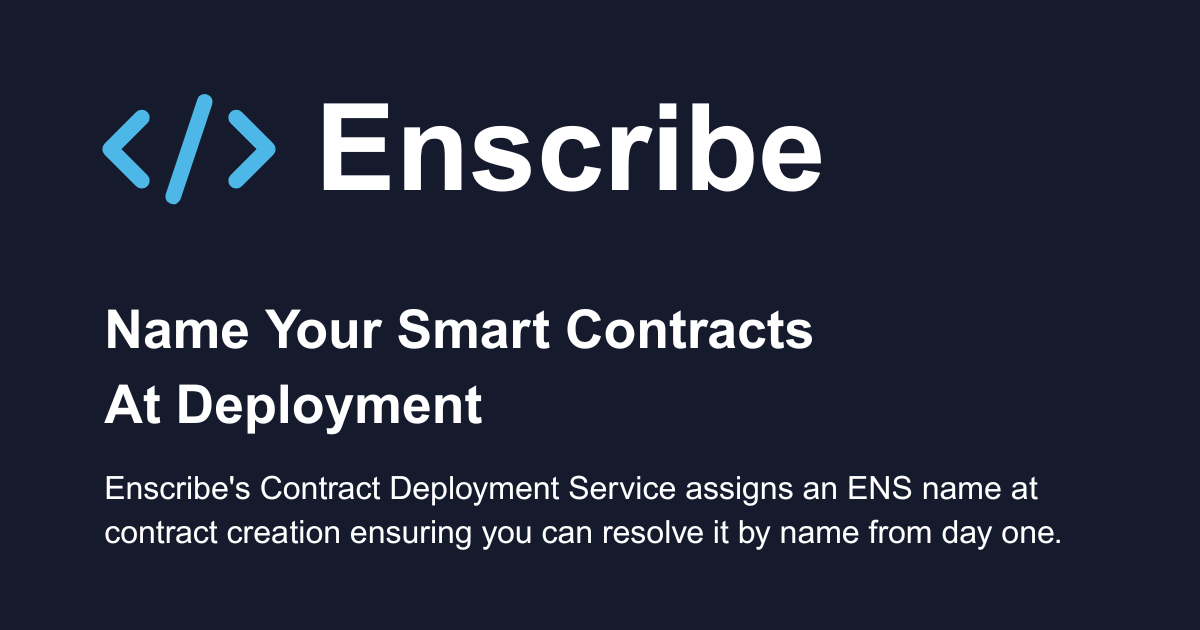
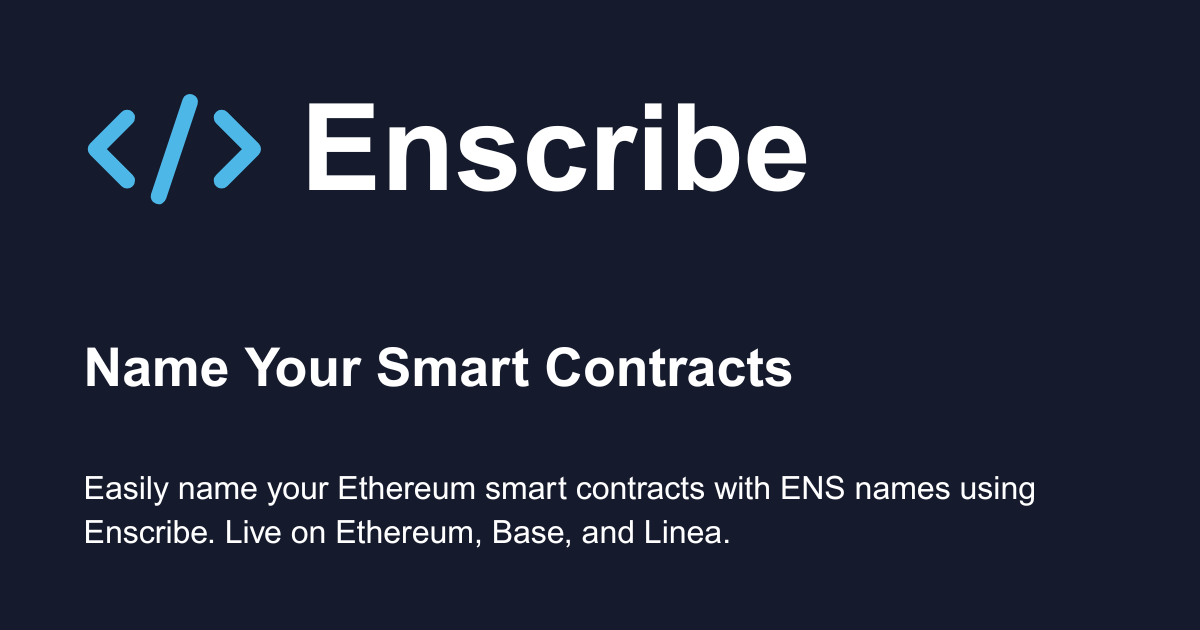
- Update social card. - Update website copy.

Changed region(s): [[0.0617, 0.4825, 0.6783, 0.6937], [0.0617, 0.754, 0.8942, 0.8746], [0.0617, 0.1508, 0.7092, 0.3317]]

diff --git a/docs/src/components/EnscribeLandingPage.jsx b/docs/src/components/EnscribeLandingPage.jsx
@@ -45,6 +45,14 @@ export default function EnscribeLandingPage() {
       answer: "We support all networks that ENS is deployed to, including Ethereum, Base and Linea",
     },
     {
+      question: "Can I name existing contracts?",
+      answer: "Yes. If you already have deployed contracts, you can assign ENS names through Enscribe using your own ENS names or one of ours."
+    },
+    {
+      question: "Can Enscribe show if a contract is verified?",
+      answer: "Yes. We pull verification data from services like Etherscan, Blockscout, and Sourcify so you and your users can see verification status at a glance."
+    },
+    {
       question: "How does Enscribe work?",
       answer:
         "When you deploy a contract using Enscribe it creates a new ENS subname you specify that resolves to the address of the newly deployed contract. Enscribe does this as an atomic transaction, so if contract deployment succeeds you will always have an ENS name you can refer to the contract with.",
@@ -124,11 +132,10 @@ export default function EnscribeLandingPage() {
             <div className="flex flex-col md:flex-row items-center gap-8">
               <div className="flex-1">
                 <h1 className="text-4xl font-bold tracking-tight sm:text-5xl md:text-6xl bg-gradient-to-r from-white to-cyan-400 bg-clip-text text-transparent mb-6">
-                  Name Your Smart Contracts At Deployment
+                  Give Your Smart Contracts a Name — and a Reputation
                 </h1>
                 <p className="text-slate-300 text-xl max-w-[600px] mb-8">
-                  Enscribe's Contract Deployment Service assigns an ENS name at contract creation ensuring you can
-                  resolve it by name from day one
+                  With Enscribe, developers can easily assign ENS names to smart contracts, while providing verification data to increase user trust.
                 </p>
                 <div className="flex flex-wrap gap-4">
                   <Link to={customFields.appUrl} className="button-primary rounded-md">
@@ -177,8 +184,7 @@ export default function EnscribeLandingPage() {
                 </div>
                 <h3 className="text-xl font-semibold mb-4">Automatic ENS Integration</h3>
                 <p className="text-slate-300">
-                  Seamlessly create ENS records for smart contracts at deploy time, eliminating manual post-deployment
-                  steps.
+                  Seamlessly create ENS records for smart contracts at deployment, or for existing contracts, eliminating manual steps.
                 </p>
               </div>
               <div className="bg-slate-800 border border-slate-700 rounded-lg p-8">
@@ -187,8 +193,7 @@ export default function EnscribeLandingPage() {
                 </div>
                 <h3 className="text-xl font-semibold mb-4">Multi-chain Support</h3>
                 <p className="text-slate-300">
-                  Deploy contracts to multiple ENS-supported chains with appropriate naming for each, expanding your
-                  reach.
+                  Name contracts on multiple ENS-supported chains including Ethereum, Base and Linea.
                 </p>
               </div>
               <div className="bg-slate-800 border border-slate-700 rounded-lg p-8">
@@ -204,20 +209,18 @@ export default function EnscribeLandingPage() {
                 <div className="text-cyan-400 text-3xl mb-4">
                   <FaLock />
                 </div>
-                <h3 className="text-xl font-semibold mb-4">You Own Your Contracts</h3>
+                <h3 className="text-xl font-semibold mb-4">Track and Manager Your Contracts</h3>
                 <p className="text-slate-300">
-                  Contracts deployed with Enscribe are owned by the deployment account not the service, ensuring you
-                  remain in control of your app contracts.
+                  Track your existing contracts in the Enscribe dashboard to easily find, name and verify your contracts.
                 </p>
               </div>
               <div className="bg-slate-800 border border-slate-700 rounded-lg p-8">
                 <div className="text-cyan-400 text-3xl mb-4">
                   <FaPlug />
                 </div>
-                <h3 className="text-xl font-semibold mb-4">Third Party Integrations</h3>
+                <h3 className="text-xl font-semibold mb-4">Smart Contract Verifications</h3>
                 <p className="text-slate-300">
-                  We're going to be launching some neat third-party integrations soon to make using the Enscribe
-                  Contract Deployment Service event more seamless.
+                  View and display verification status of contracts accross a number of sources including Etherscan, Blockscout, and Sourcify.
                 </p>
               </div>
             </div>
@@ -241,7 +244,7 @@ export default function EnscribeLandingPage() {
                     </li>
                     <li className="flex items-center">
                       <HiCheck className="mr-2 h-4 w-4 text-cyan-400" />
-                      <span className="text-slate-200">Contract bytecode to be deployed</span>
+                      <span className="text-slate-200">Contract bytecode to be deployed or existing contract address</span>
                     </li>
                   </ul>
                 </div>
@@ -250,11 +253,11 @@ export default function EnscribeLandingPage() {
                   <ul className="space-y-2">
                     <li className="flex items-center">
                       <HiCheck className="mr-2 h-4 w-4 text-cyan-400" />
-                      <span className="text-slate-200">Deployed contract with ENS subname as primary name</span>
+                      <span className="text-slate-200">ENS primary name that resolves to contract address</span>
                     </li>
                     <li className="flex items-center">
                       <HiCheck className="mr-2 h-4 w-4 text-cyan-400" />
-                      <span className="text-slate-200">Optional locked ENS subname record for enhanced security</span>
+                      <span className="text-slate-200">Optional verifications for additional trust</span>
                     </li>
                   </ul>
                 </div>
@@ -378,11 +381,10 @@ export default function EnscribeLandingPage() {
           <div className="container mx-auto px-4 md:px-6">
             <div className="flex flex-col items-center space-y-4 text-center max-w-3xl mx-auto">
               <h2 className="text-3xl font-bold tracking-tight md:text-4xl bg-gradient-to-r from-white to-cyan-400 bg-clip-text text-transparent mb-4">
-                Eliminate Contract Addresses For Your Users
+                ENS names are only the beginning — start building trust into every contract interaction
               </h2>
               <p className="text-slate-300 text-xl mb-8 max-w-[600px]">
-                Join the growing community of developers using Enscribe to deploy their smart contracts, enhancing trust
-                and transparency in their web3 apps.
+                Join the growing community of developers using Enscribe to name their smart contracts, enhancing trust and transparency in their web3 apps.
               </p>
               <Link to={customFields.appUrl} className="button-primary rounded-md">
                 Launch App
